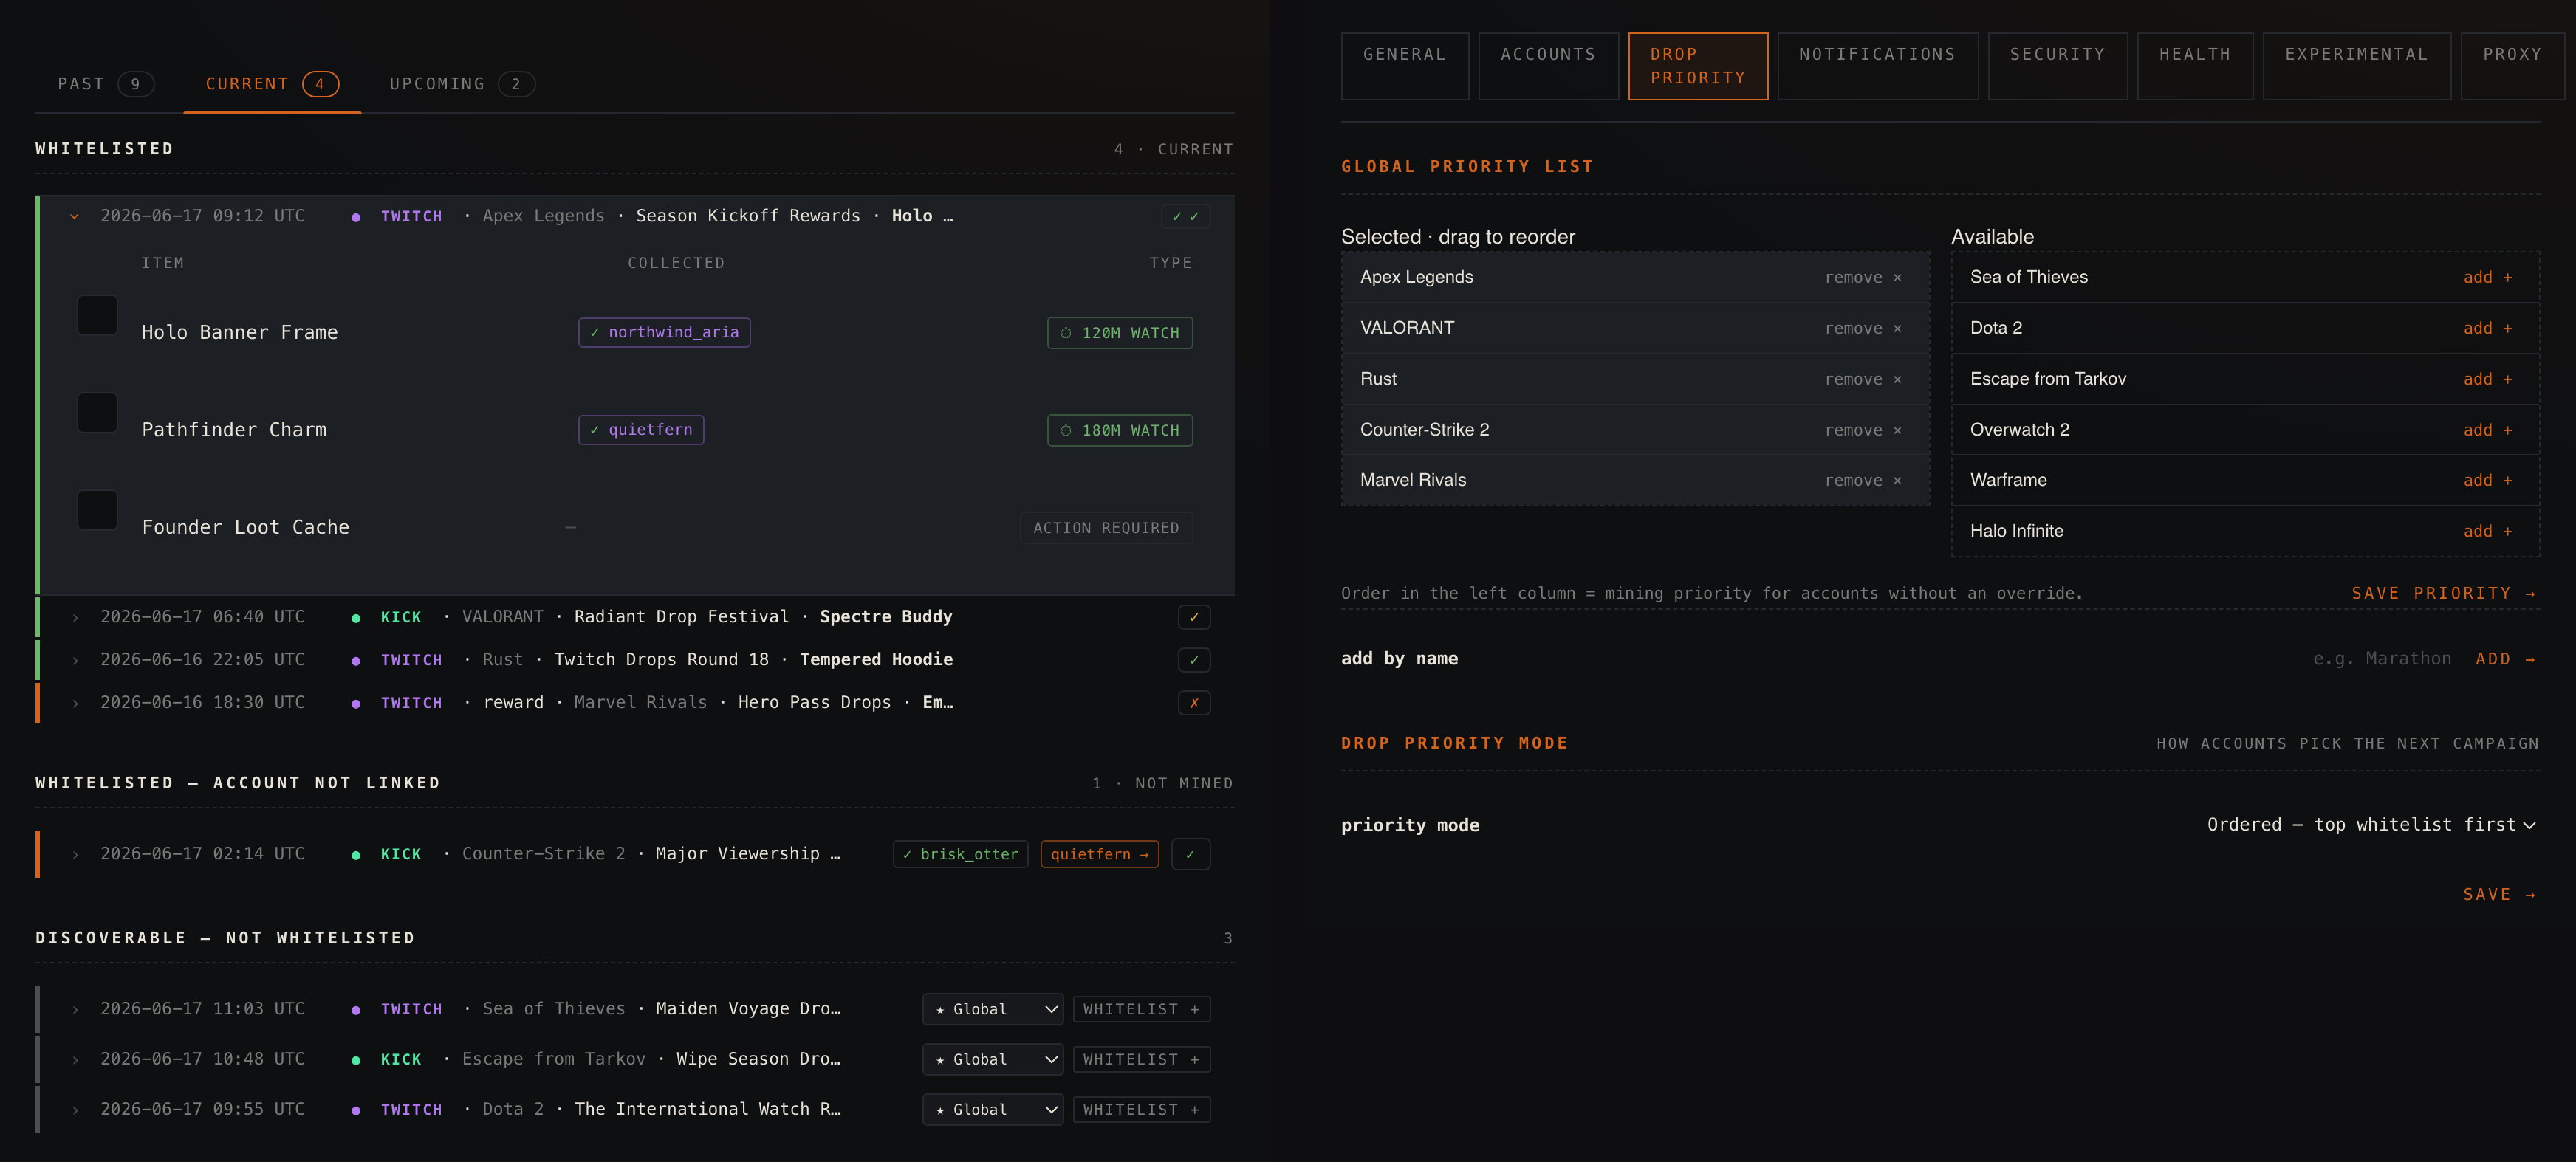
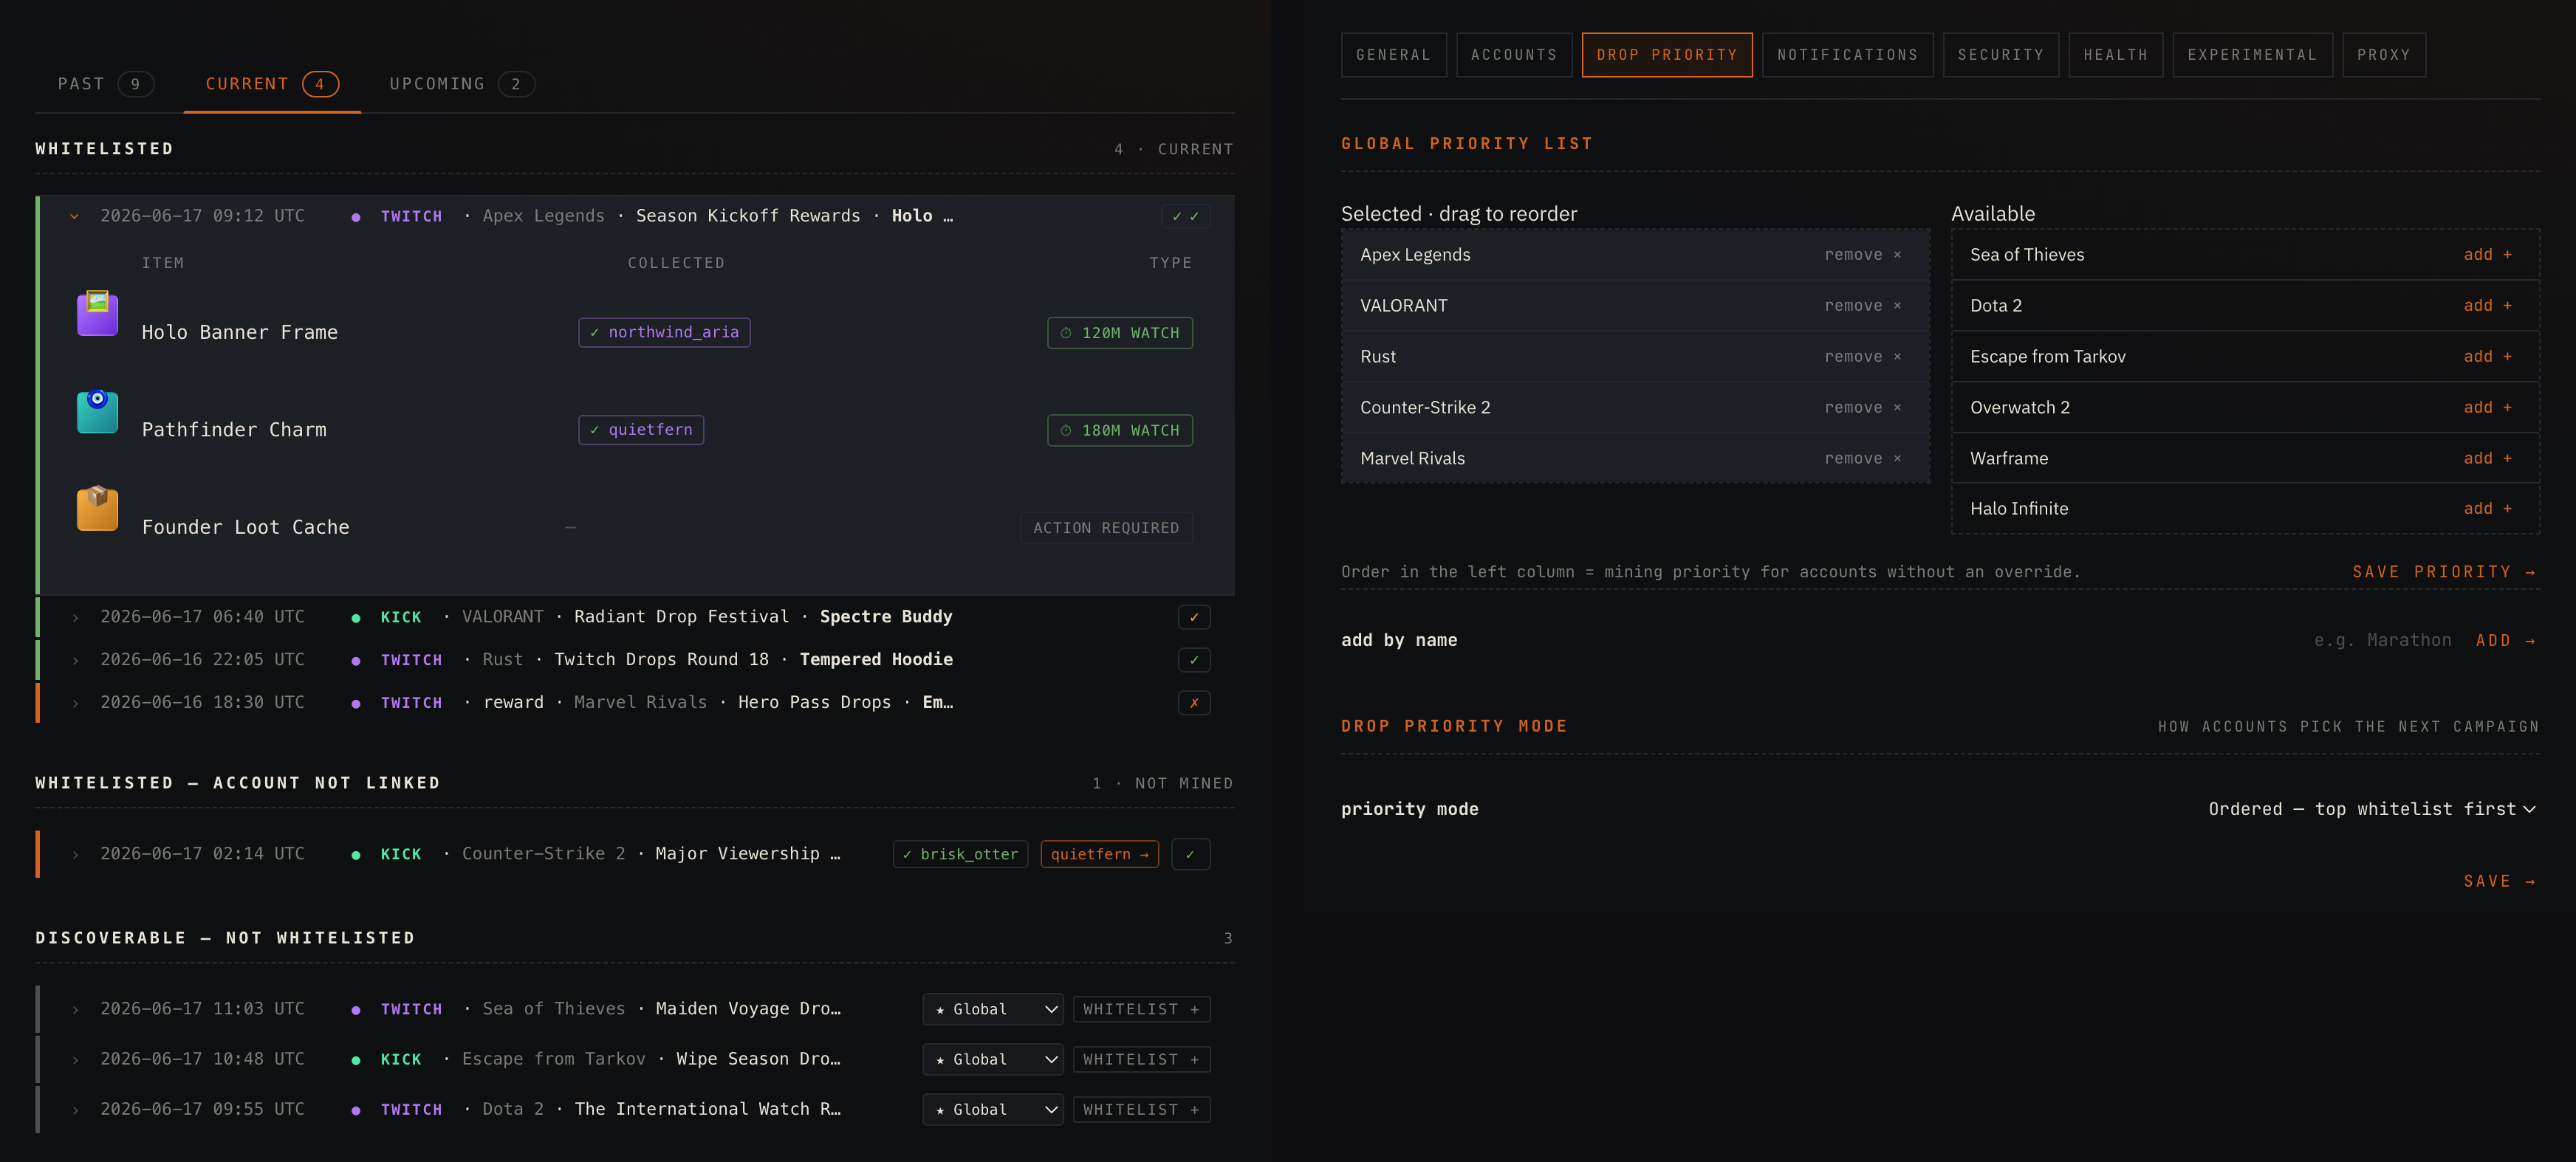
docs(seo): drop-item thumbnails + one-line settings subnav in mockups
- Fill the empty drop-item icon tiles with gradient reward thumbnails.
- Shrink the settings subnav font so all tabs fit on one line at the
  screenshot width (Drop Priority was wrapping).
- Re-render + recombine the hero image.

diff --git a/docs/mockups/drops.html b/docs/mockups/drops.html
@@ -84,19 +84,19 @@
               <div class="drop-items">
                 <div class="drop-items-head"><span></span><span>item</span><span>collected</span><span>type</span></div>
                 <div class="drop-item">
-                  <span class="drop-item-icon"><span class="ph"></span></span>
+                  <span class="drop-item-icon"><span class="ph" style="background:linear-gradient(135deg,#b07bff,#6d28d9);border-color:transparent;display:flex;align-items:center;justify-content:center;font-size:15px;line-height:1;">🖼️</span></span>
                   <span class="drop-item-name">Holo Banner Frame</span>
                   <span class="drop-item-collected"><span class="cmark cmark-twitch" title="claimed by northwind_aria">northwind_aria</span></span>
                   <span class="drop-item-type"><span class="dtype dtype-watch" title="watch-time drop — auto-mined">⏱ 120m watch</span></span>
                 </div>
                 <div class="drop-item">
-                  <span class="drop-item-icon"><span class="ph"></span></span>
+                  <span class="drop-item-icon"><span class="ph" style="background:linear-gradient(135deg,#34d3c0,#1d7a8c);border-color:transparent;display:flex;align-items:center;justify-content:center;font-size:15px;line-height:1;">🧿</span></span>
                   <span class="drop-item-name">Pathfinder Charm</span>
                   <span class="drop-item-collected"><span class="cmark cmark-twitch" title="claimed by quietfern">quietfern</span></span>
                   <span class="drop-item-type"><span class="dtype dtype-watch" title="watch-time drop — auto-mined">⏱ 180m watch</span></span>
                 </div>
                 <div class="drop-item drop-dim">
-                  <span class="drop-item-icon"><span class="ph"></span></span>
+                  <span class="drop-item-icon"><span class="ph" style="background:linear-gradient(135deg,#f5b042,#b9701a);border-color:transparent;display:flex;align-items:center;justify-content:center;font-size:15px;line-height:1;">📦</span></span>
                   <span class="drop-item-name">Founder Loot Cache</span>
                   <span class="drop-item-collected"><span class="cmark-none">—</span></span>
                   <span class="drop-item-type"><span class="dtype dtype-action" title="action required">action required</span></span>

diff --git a/docs/mockups/whitelist.html b/docs/mockups/whitelist.html
@@ -16,6 +16,9 @@
   .shell > .ph { display: none !important; }
   main { padding: 22px 0 8px !important; }
   .shell { padding-top: 0 !important; }
+  /* keep the settings subnav on one line at the narrow screenshot width */
+  .subnav { flex-wrap: nowrap !important; }
+  .subnav-link { font-size: 10px !important; white-space: nowrap !important; padding: 7px 9px !important; }
 </style>
 </head>
 <body>